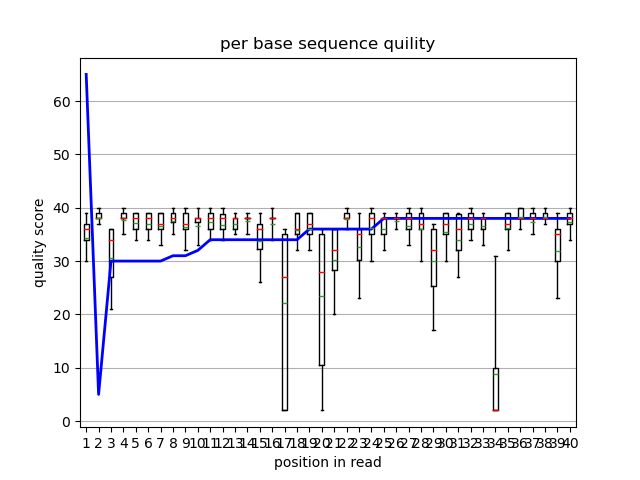
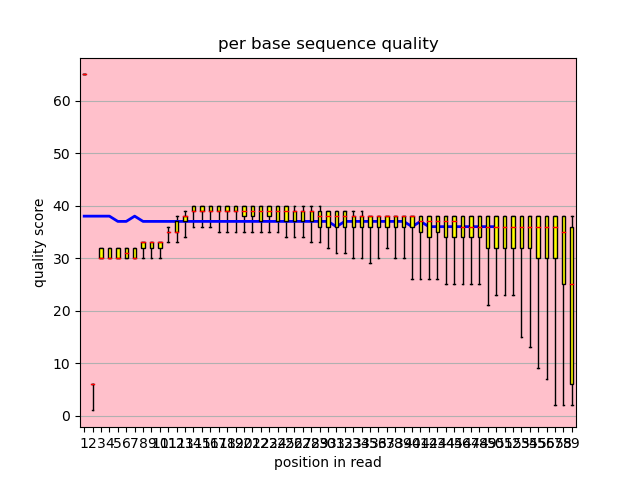
merge plot

diff --git a/src/graphs.py b/src/graphs.py
@@ -21,15 +21,51 @@ def qual_box_plot(file_path):
         i = -1 
         for line in inpf:
             line = str(line.strip())
-            #print('in loop: line is ', line)
+            print('in loop: line is ', line)
             i = i + 1
-            #print(' i is: ', i)
+            print(' i is: ', i)
             if i%4 == 3:
                 quali_score_list_1 = list(map(ord, line))
                 quali_score_list = np.array(quali_score_list_1) - 33
+                print(quali_score_list.shape)
 
                 seq_score_list.append(quali_score_list)
                 list_sum = np.array(seq_score_list).sum(0)
+
+        seq_score_list = np.array(seq_score_list)
+        print('seq_score_list shape: ',seq_score_list.shape)
+        A = seq_score_list[:,0:10].T
+        print('A. shape: ',A.shape)
+        B = seq_score_list[:,10:]
+        print('B shape: ', B.shape)
+        step=5
+        C = [B[:,j:j+step].flatten().tolist() for j in range(0,B.shape[1],step)]
+        print('C0 len',len(C[0]))
+        print('C1 len',len(C[1]))
+        print('C2 len',len(C[2]))
+        print('C-2 len',len(C[-2]))
+        print('C-1 len',len(C[-1]))
+        print(C)
+
+        A = A.tolist()
+        D = A + C 
+
+        print(D)
+
+            #step = 5
+            #b = [quali_score_list[j:j+step] for j in range(10,len(quali_score_list),step)]
+            #print('xxx')
+
+            #print(b)
+            #print('xxx')
+            #exit(0)
+            #print(quali_score_list[:10])
+            #exit(0)
+            #b = quali_score_list[:10] + b
+            #for x in b:
+            #    print("xxxxx:", x)
+
+            #print("longggg: ", len(quali_score_list))
     #list_mean =  list_sum // 250   
     #list_median = np.median(seq_score_list, axis = 0)
     #list_10_perc = np.percentile(seq_score_list, 10, axis = 0)
@@ -41,13 +77,16 @@ def qual_box_plot(file_path):
     #df.plot.box(title="hua tu")
     #plt.grid(linestyle="--", alpha=0.3)
     #plt.show()
-    print("seq_score_list" ,seq_score_list[:15])
+    #print("seq_score_list" ,seq_score_list[:15])
     fig = plt.figure()  # 创建画布
     ax = plt.subplot()  # 创建作图区域
     
 
-    
-    g = ax.boxplot(seq_score_list[:40], showfliers = False, showmeans = True, boxprops={'color':'black'}, medianprops={'color':'red'}, meanline = True, widths=0.4, whis=[10, 90], showbox = True)  
+    #plt.rcParams['axes.facecolor']='pink'
+    #g = ax.boxplot(seq_score_list[50:100], showfliers = False, boxprops=dict(facecolor='yellow'), medianprops={'color':'red'}, meanline = True, patch_artist=True,  widths=0.4, whis=[10, 90], showbox = True)  
+    g = ax.boxplot(D, showfliers = False, boxprops=dict(facecolor='yellow'), medianprops={'color':'red'}, meanline = True, patch_artist=True,  widths=0.4, whis=[10, 90], showbox = True)  
+
+    ax.set_facecolor('pink')
     # 修改x轴下标
     #ax.set_xticks([1, 2])
     #ax.set_xticklabels(['first', 'second'])
@@ -55,7 +94,7 @@ def qual_box_plot(file_path):
     plt.grid(axis='y')
     #plt.show()
     plt.savefig('test222.png')
-    return 
+    return  D
                         
     #return list_mean, list_median, list_10_perc, list_25_perc, list_50_perc, list_75_perc, list_90_perc
     #return plt.show()
@@ -88,12 +127,13 @@ def line_chart(file_path):
     #a = np.array(seq_score_list) 
     #print(a.shape)
     list_mean =  list_sum // 250
-    y1 = list_mean[:40]
-    x1 = range(1, 41)
+    y1 = list_mean[50:100]
+    x1 = range(1, 51)
     plt.plot(x1, y1, label = 'mean plot', linewidth = 2, color = 'blue')
     plt.xlabel('position in read')
     plt.ylabel('quality score')
-    plt.title('per base sequence quility')
+    plt.title('per base sequence quality')
+    #plt.rcParams['axes.facecolor']='pink'
     #plt.legend()
     plt.savefig('test111.png')
     return     
